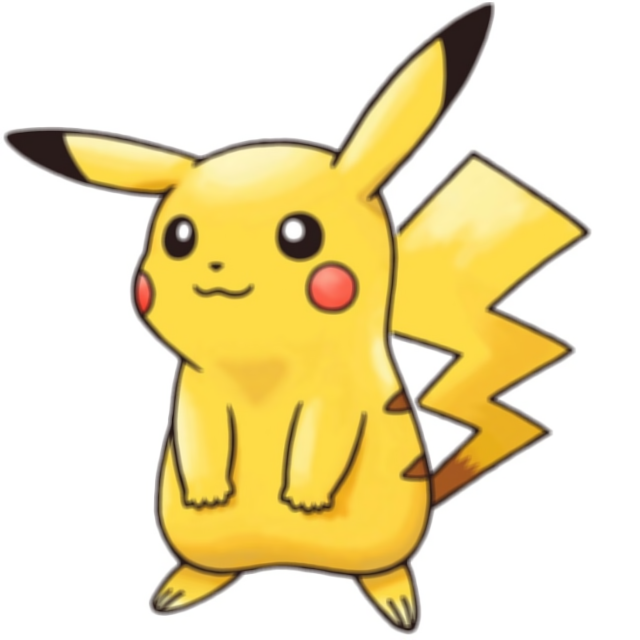
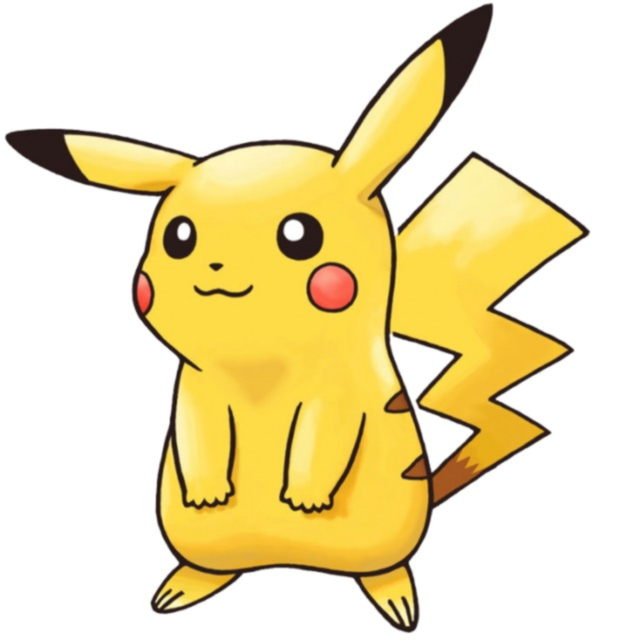
add smooth filter to pikachu image

diff --git a/images.py b/images.py
@@ -1,6 +1,6 @@
 from PIL import Image, ImageFilter
 
 img = Image.open('./pokedex/pikachu.jpg')
-filtered_img = img.filter(ImageFilter.BLUR)
+filtered_img = img.filter(ImageFilter.SMOOTH)
 
 filtered_img.save('blur.png', 'png')
